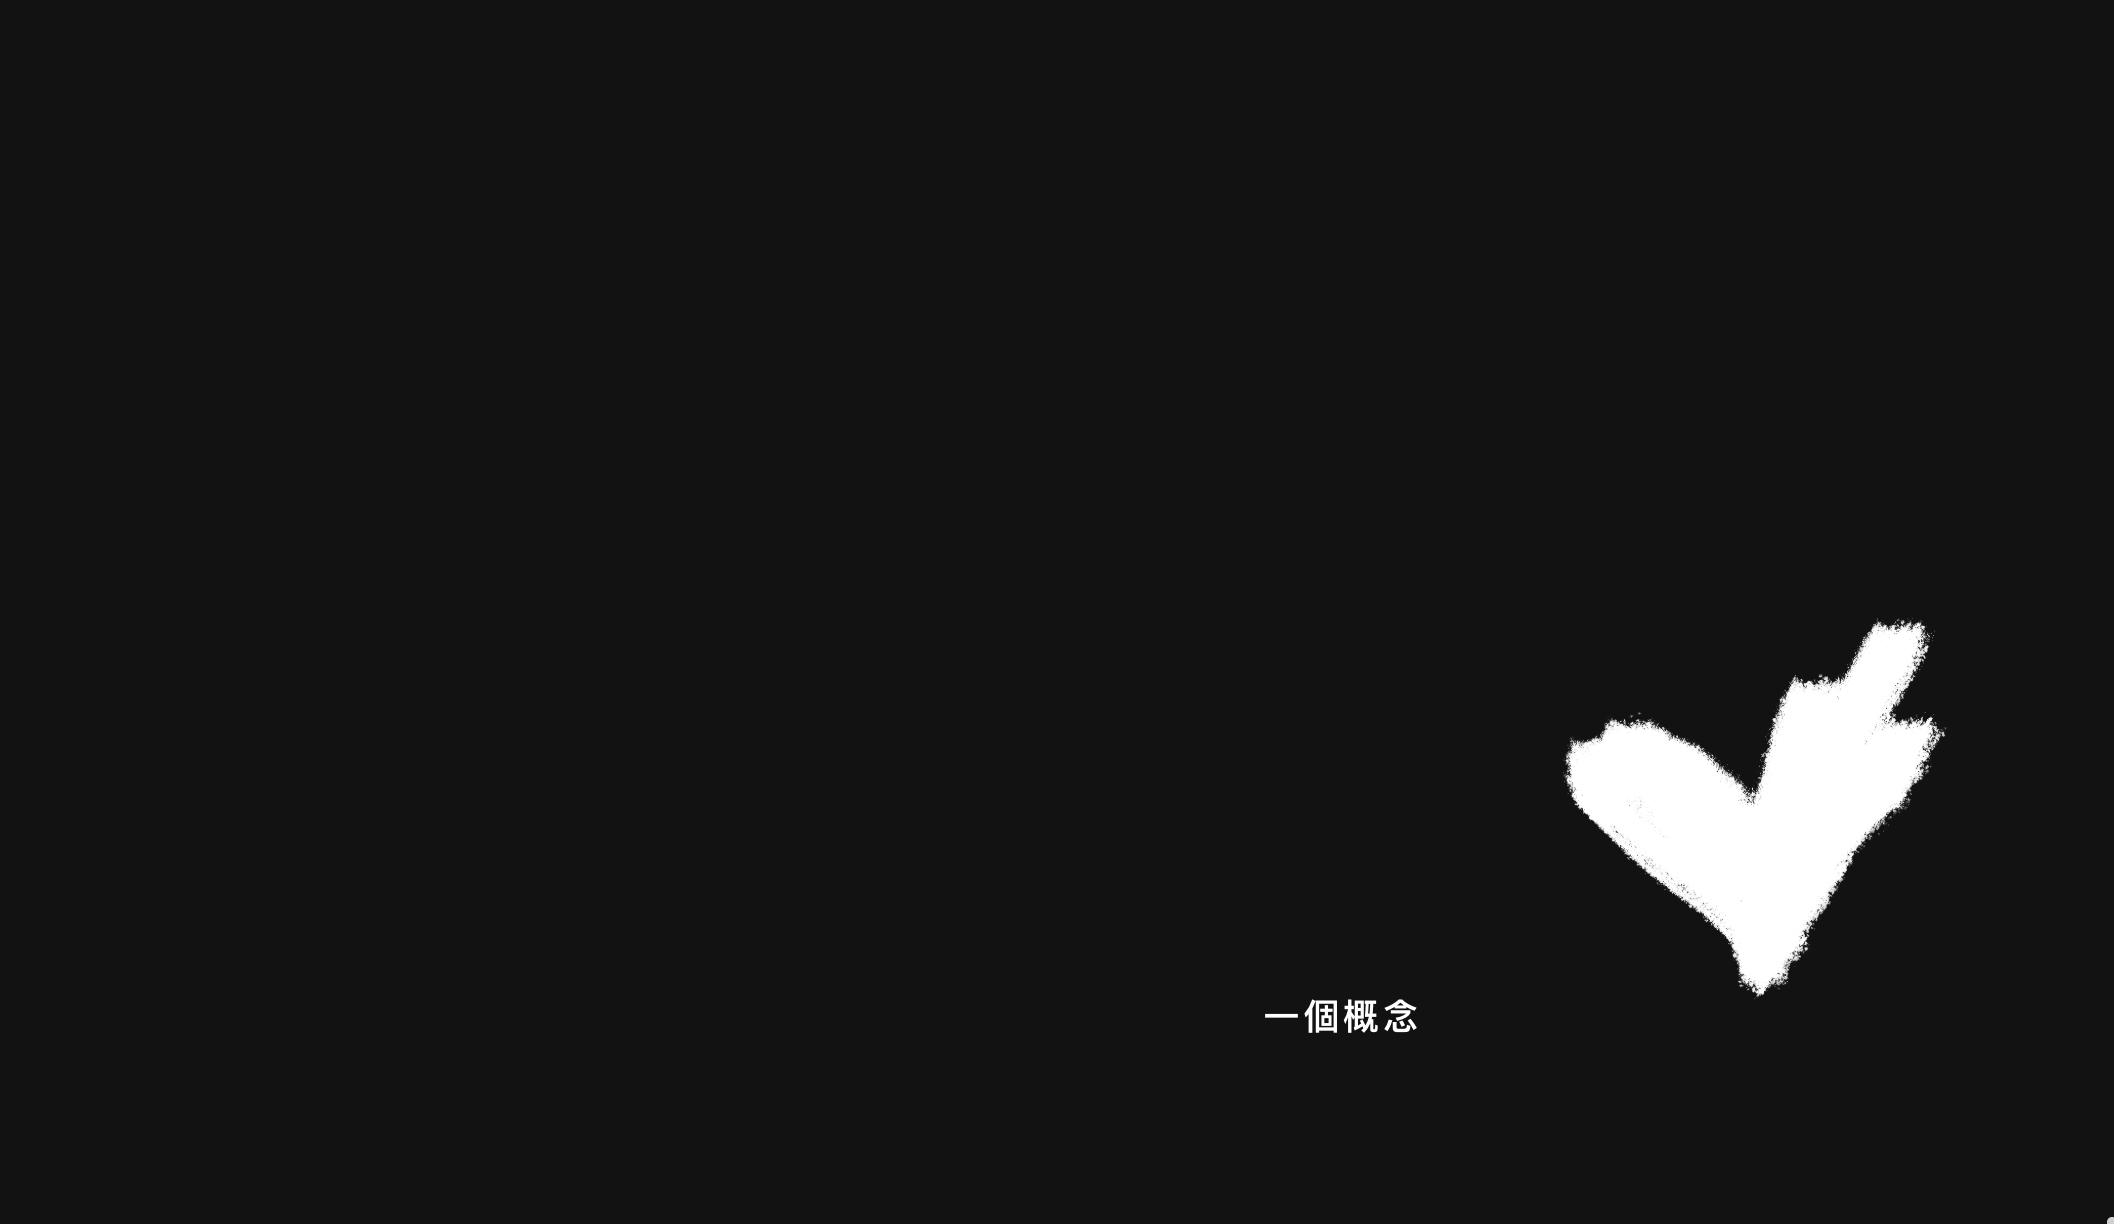
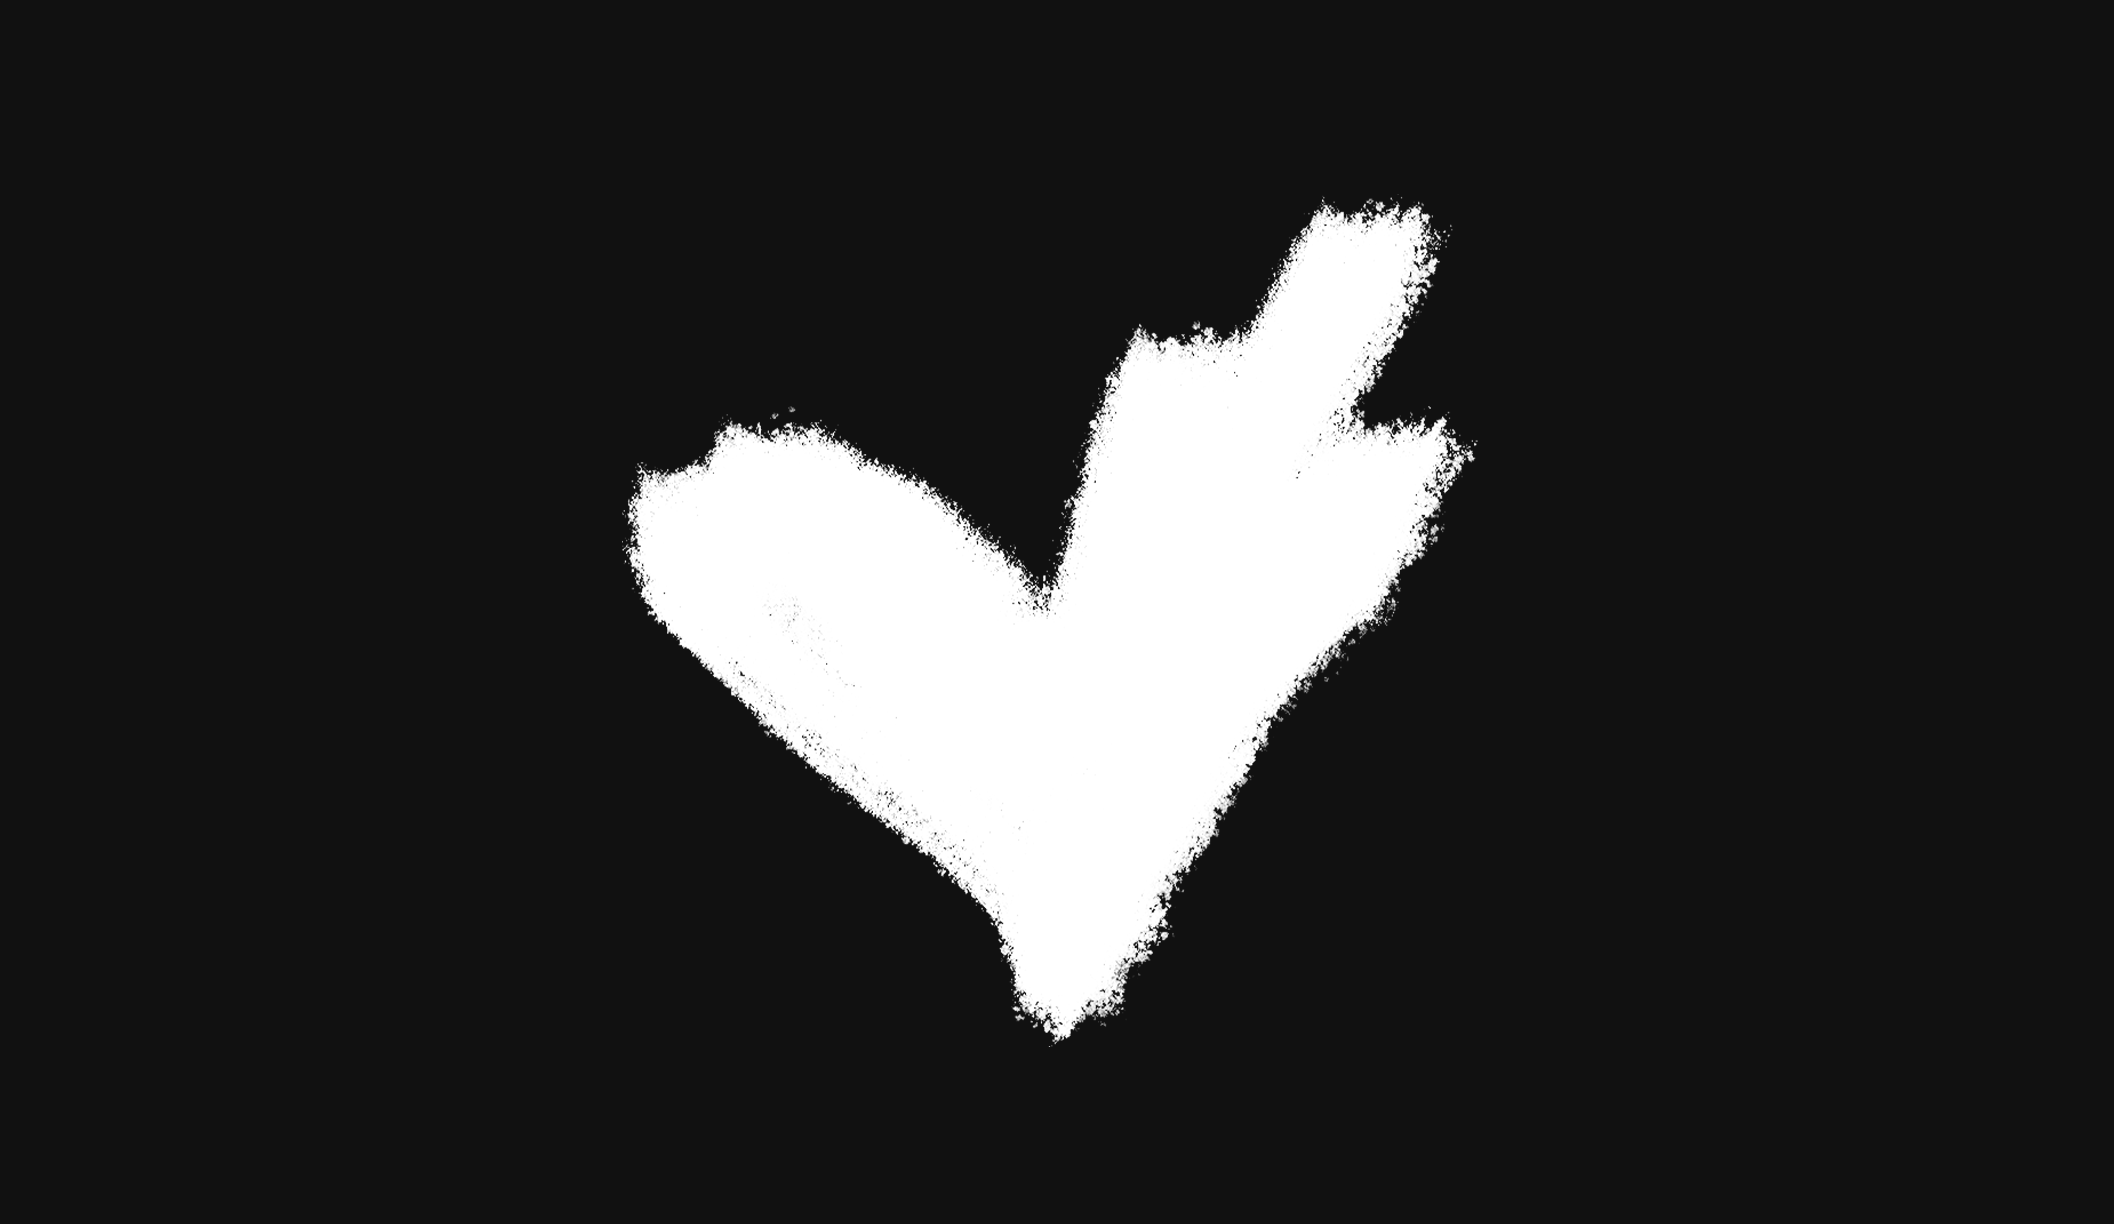
FINALLL

diff --git a/src/pages/Artists.tsx b/src/pages/Artists.tsx
@@ -6,6 +6,23 @@ import YAML from 'yaml';
 const artists = YAML.parse(artistsYaml);
 
 export default function Artists() {
+  const [isSafari, setIsSafari] = useState(false);
+
+  useEffect(() => {
+    const ua = navigator.userAgent;
+    const isRealSafari =
+      /Safari/.test(ua) &&
+      /AppleWebKit/.test(ua) &&
+      !/Chrome/.test(ua) &&
+      !/CriOS/.test(ua) &&
+      !/FxiOS/.test(ua) &&
+      !/Instagram/.test(ua) &&
+      !/FBAN/.test(ua) &&
+      !/FBAV/.test(ua) &&
+      !/Line\//.test(ua);
+    setIsSafari(isRealSafari);
+  }, []);
+
   const [selectedArtist, setSelectedArtist] = useState<any>(null);
 
   useEffect(() => {
@@ -49,14 +66,6 @@ export default function Artists() {
   }, [selectedArtist]);
 
   return (
-    <>
-    <style>{`
-      @supports (-webkit-touch-callout: none) {
-        .artist-mobile-content {
-          padding-bottom: max(6rem, calc(env(safe-area-inset-bottom) + 5rem)) !important;
-        }
-      }
-    `}</style>
     <motion.div 
       initial={{ opacity: 0 }}
       animate={{ opacity: 1 }}
@@ -148,7 +157,7 @@ export default function Artists() {
                 className="w-full max-w-6xl flex flex-col md:gap-16 relative z-10 h-full md:flex-grow md:mt-0"
               >
                 {/* ── MOBILE LAYOUT ── */}
-                <div className="flex md:hidden flex-col h-full justify-end artist-mobile-content" style={{ paddingBottom: 'max(2.5rem, calc(env(safe-area-inset-bottom) + 1rem))' }}>
+                <div className="flex md:hidden flex-col h-full justify-end artist-mobile-content" style={{ paddingBottom: isSafari ? 'max(8rem, calc(env(safe-area-inset-bottom) + 7rem))' : 'max(2.5rem, calc(env(safe-area-inset-bottom) + 1rem))' }}>
                   {/* Image — directly above text, fixed gap */}
                   <div className="flex justify-center px-12 mb-6">
                     <img
@@ -256,6 +265,5 @@ export default function Artists() {
         )}
       </AnimatePresence>
     </motion.div>
-    </>
   );
 }
